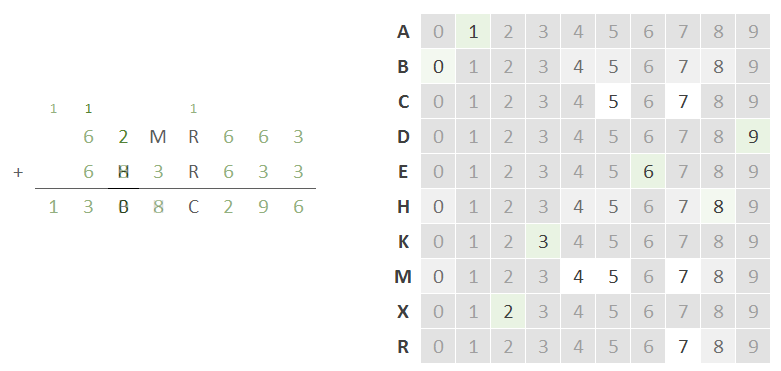
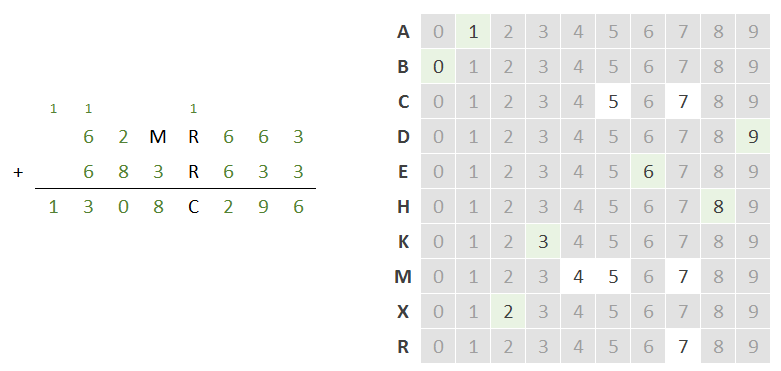
Step 15

diff --git a/2018-06-08/README.md b/2018-06-08/README.md
@@ -182,3 +182,19 @@ H|2 + H + 1?|B available?|Creates carry digit in column 2?
 Therefore, H = 8 and B = 2.
 
 ![Message](step12.png)
+
+Now we can use process of elimination to fill out the rest of the puzzle:
+
+- R = 7, since that's the only possible value left for R
+
+![Message](step13.png)
+
+- M = 4, since M is the only symbol left that can be 4
+
+![Message](step14.png)
+
+- C = 5, since that's the only remaining symbol and value pair.
+
+![Message](step15.png)
+
+That leaves us with an equation: 6,247,663 + 6,837,633 = 13,085,296, which you can verify is true by doing the addition.
